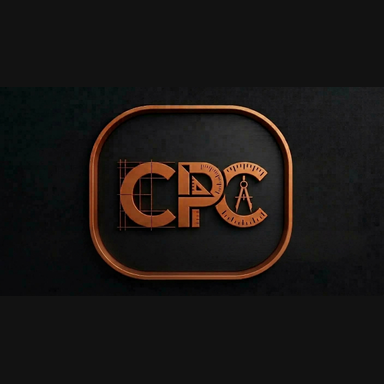
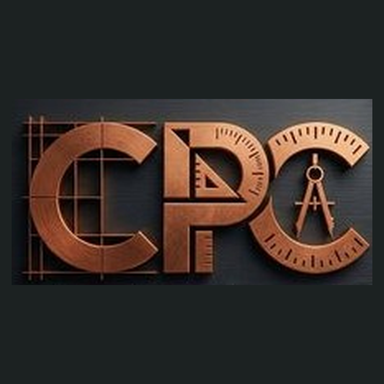
Update CPC brand to new copper drafting wordmark
Replace full logo, square mark, favicon and PWA icons.
Headers show the wide wordmark for clearer branding.

diff --git a/src/components/Logo.tsx b/src/components/Logo.tsx
@@ -92,10 +92,10 @@ export const Logo: React.FC<LogoProps> = ({
     </div>
   )
 
-  /** Compact square mark for header (same asset as favicon / PWA icons). */
+  /** Compact mark for small badges (favicon / PWA share the same square asset). */
   const GlassLogo = () => (
     <div
-      className={`${glassSize} rounded-2xl overflow-hidden bg-[#141415]
+      className={`${glassSize} rounded-2xl overflow-hidden bg-[#1e2126]
       flex items-center justify-center shadow-2xl
       border border-white/10 relative shrink-0 ${className}`}
     >
@@ -106,9 +106,16 @@ export const Logo: React.FC<LogoProps> = ({
   const content = (() => {
     if (variant === 'glass') return <GlassLogo />
     if (variant === 'icon') {
+      // Wide copper wordmark reads better than a cramped square in app chrome
       return (
-        <div className={`inline-flex shrink-0 ${className}`}>
-          <MarkImg px={iconSize} boxClass="rounded-lg" />
+        <div className={`inline-flex shrink-0 items-center ${className}`}>
+          <img
+            src={FULL_SRC}
+            alt="CPC"
+            className="object-contain rounded-md"
+            style={{ height: iconSize, width: 'auto', maxWidth: iconSize * 3.2 }}
+            draggable={false}
+          />
         </div>
       )
     }

diff --git a/src/components/TopNav.tsx b/src/components/TopNav.tsx
@@ -39,14 +39,11 @@ export const TopNav: React.FC = () => {
             aria-label="Home"
           >
             <img
-              src="/logo-cpc-mark.png"
-              alt="CPC"
-              className="h-9 w-auto rounded-md object-contain"
+              src="/logo-cpc-full.jpg"
+              alt="CPC — Construction Project Calculator"
+              className="h-9 w-auto max-w-[11rem] rounded-md object-contain"
               draggable={false}
             />
-            <span className="text-sm font-medium" style={{ color: 'var(--cpc-text)' }}>
-              CPC
-            </span>
           </button>
 
           <HeaderAnnouncement />

diff --git a/src/components/MobileTopNav.tsx b/src/components/MobileTopNav.tsx
@@ -70,9 +70,9 @@ export const MobileTopNav: React.FC = () => {
           aria-label="Home"
         >
           <img
-            src="/logo-cpc-mark.png"
+            src="/logo-cpc-full.jpg"
             alt="CPC"
-            className="h-[30px] w-auto rounded-md object-contain block"
+            className="h-8 w-auto max-w-[9.5rem] rounded-md object-contain block"
             draggable={false}
           />
         </button>
